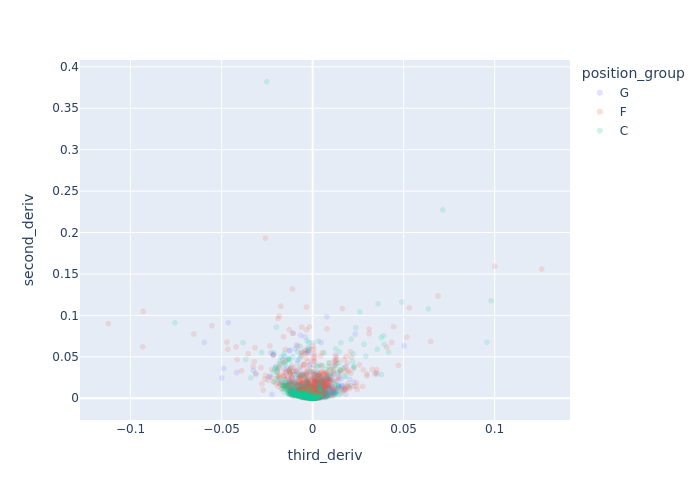
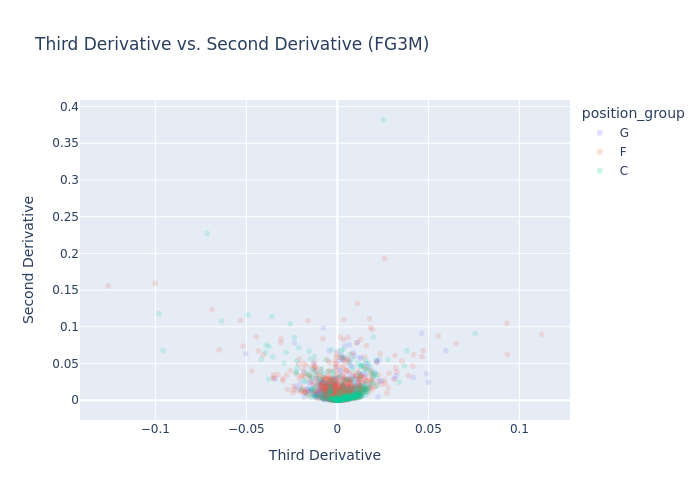
added correction to the plots

diff --git a/peak_distribution_plot.py b/peak_distribution_plot.py
@@ -141,7 +141,7 @@ def make_mu(X, ls_deriv, alpha_time, weights, W, ls, c_max, t_max_raw, sigma_t_m
     gamma_phi_gamma_x = jnp.einsum("nm, mdk, nktdz, jzk, nj -> knt", psi_x, weights, phi_t_max[:,:,None,...] - phi_time[None, None] +  phi_prime_t_max[:, :, None, ...] * (((shifted_x_time - L_time)[None, None] - t_max[...,None])[..., None, None]), weights, psi_x)
     mu = intercept + gamma_phi_gamma_x
     second_deriv = -1 * jnp.einsum("nm, mdk, nkdz, jzk, nj -> kn", psi_x, weights, phi_double_prime_tmax, weights, psi_x)
-    third_deriv = jnp.einsum("nm, mdk, nkdz, jzk, nj -> kn", psi_x, weights, phi_triple_prime_tmax, weights, psi_x)
+    third_deriv = -1 * jnp.einsum("nm, mdk, nkdz, jzk, nj -> kn", psi_x, weights, phi_triple_prime_tmax, weights, psi_x)
     return mu, t_max, c_max, second_deriv, third_deriv
 
 
@@ -318,29 +318,31 @@ if __name__ == "__main__":
                         t_max_raw=results_map["t_max_raw"], sigma_t_max=results_map["sigma_t"], sigma_c_max=results_map["sigma_c"],
                          L_time=L_time, M_time=M_time, shifted_x_time=x_time + L_time, offset_dict = offset_dict, phi_time=phi_time)
     
-    second_deriv_df = pd.concat([pd.DataFrame(-1*second_deriv.T, columns=metrics), id_df], axis=1).melt(value_name="second_deriv", var_name="metric", value_vars=metrics, id_vars=["name", "id", "minutes", "position_group"])
-    third_deriv_df = pd.concat([pd.DataFrame(third_deriv.T, columns=metrics), id_df], axis = 1).melt(value_name="third_deriv", var_name="metric", value_vars=metrics, id_vars=["name", "id", "minutes", "position_group"])
+    second_deriv_df = pd.concat([pd.DataFrame(-1*second_deriv.T, columns=metrics), id_df], axis=1).melt(value_name="Second Derivative", var_name="metric", value_vars=metrics, id_vars=["name", "id", "minutes", "position_group"])
+    third_deriv_df = pd.concat([pd.DataFrame(third_deriv.T, columns=metrics), id_df], axis = 1).melt(value_name="Third Derivative", var_name="metric", value_vars=metrics, id_vars=["name", "id", "minutes", "position_group"])
     deriv_plot_df = pd.merge(second_deriv_df, third_deriv_df, on = ["id", "metric", "name", "position_group", "minutes"])
     for metric in metrics:
         fig = px.scatter(
             deriv_plot_df[deriv_plot_df["metric"] == metric],
-            x='third_deriv',
-            y='second_deriv',
+            x='Third Derivative',
+            y='Second Derivative',
             color='position_group',
             # facet_col='metric',
             # facet_col_wrap=4,
-            opacity = .15)
+            opacity = .15,
+            title = f"Third Derivative vs. Second Derivative ({metric.upper()})")
         fig.write_image(f"model_output/model_plots/curvature/map/{model_name}_{metric}.png", format = "png")
     print(deriv_plot_df.describe())
     fig = px.histogram(
         deriv_plot_df,
-        x='third_deriv',
+        x='Third Derivative',
         color='position_group',
         facet_col='metric',
         facet_col_wrap=4,
         barmode="overlay",
         histnorm='percent',
-        nbins=100
+        nbins=100,
+        title = f"Third Derivative Distribution by Metric"
     )
     fig.write_image(f"model_output/model_plots/curvature/map/{model_name}_histogram.png", format = "png")
     
